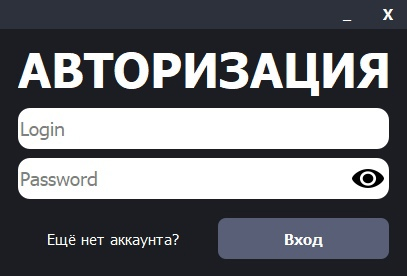
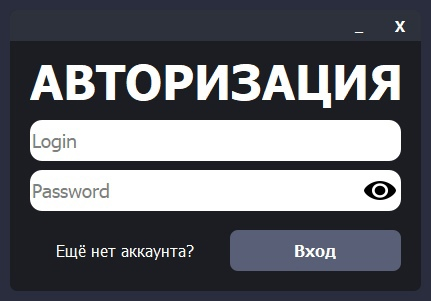
Fixed Bugs

Changed region(s): [[0.0, 0.029, 1.0, 1.0], [0.1179, 0.8116, 0.4717, 0.8986]]

diff --git a/VK_Bot/server.py b/VK_Bot/server.py
@@ -9,102 +9,129 @@ import requests
 import json
 
 def update_bot_settings(bot_settings):
-	server_answer = requests.post(f'{Config.SERVER}/vk_bot/files/bot_settings/update', json = {
-			'Bot_Settings': bot_settings,
-			'Unique_Key': Config.UNIQUE_KEY
-		}
-	)
-	if server_answer.status_code == 400:
-		server_answer_text = json.loads(server_answer.text)
-		MessageBox(text = server_answer_text['Answer'], button_2 = 'Окей')
+	try:
+		server_answer = requests.post(f'{Config.SERVER}/vk_bot/files/bot_settings/update', json = {
+				'Bot_Settings': bot_settings,
+				'Unique_Key': Config.UNIQUE_KEY
+			}
+		)
+		if server_answer.status_code == 400:
+			server_answer_text = json.loads(server_answer.text)
+			MessageBox(text = server_answer_text['Answer'], button_2 = 'Окей')
+	except requests.exceptions.ConnectionError:
+		MessageBox(text = 'Отсутствует подключение к интернету', button_2 = 'Окей')
 
 def get_bot_settings():
-	server_answer = requests.post(f'{Config.SERVER}/vk_bot/files/bot_settings/get', json = {
-			'Unique_Key': Config.UNIQUE_KEY
-		}
-	)
-	server_answer_text = json.loads(server_answer.text)
-	if server_answer.status_code == 200:
-		return server_answer_text['Bot_Settings']
-	else:
-		MessageBox(text = server_answer_text['Answer'], button_2 = 'Окей')
+	try:
+		server_answer = requests.post(f'{Config.SERVER}/vk_bot/files/bot_settings/get', json = {
+				'Unique_Key': Config.UNIQUE_KEY
+			}
+		)
+		server_answer_text = json.loads(server_answer.text)
+		if server_answer.status_code == 200:
+			return server_answer_text['Bot_Settings']
+		else:
+			MessageBox(text = server_answer_text['Answer'], button_2 = 'Окей')
+	except requests.exceptions.ConnectionError:
+		MessageBox(text = 'Отсутствует подключение к интернету', button_2 = 'Окей')
 
 def update_user_commands(user_commands):
-	server_answer = requests.post(f'{Config.SERVER}/vk_bot/files/user_commands/update', json = {
-			'User_Commands': user_commands,
-			'Unique_Key': Config.UNIQUE_KEY
-		}
-	)
-	if server_answer.status_code == 400:
-		server_answer_text = json.loads(server_answer.text)
-		MessageBox(text = server_answer_text['Answer'], button_2 = 'Окей')
+	try:
+		server_answer = requests.post(f'{Config.SERVER}/vk_bot/files/user_commands/update', json = {
+				'User_Commands': user_commands,
+				'Unique_Key': Config.UNIQUE_KEY
+			}
+		)
+		if server_answer.status_code == 400:
+			server_answer_text = json.loads(server_answer.text)
+			MessageBox(text = server_answer_text['Answer'], button_2 = 'Окей')
+	except requests.exceptions.ConnectionError:
+		MessageBox(text = 'Отсутствует подключение к интернету', button_2 = 'Окей')
 
 def get_user_commands():
-	server_answer = requests.post(f'{Config.SERVER}/vk_bot/files/user_commands/get', json = {
-			'Unique_Key': Config.UNIQUE_KEY
-		}
-	)
-	server_answer_text = json.loads(server_answer.text)
-	if server_answer.status_code == 200:
-		return server_answer_text['User_Commands']
-	else:
-		MessageBox(text = server_answer_text['Answer'], button_2 = 'Окей')
+	try:
+		server_answer = requests.post(f'{Config.SERVER}/vk_bot/files/user_commands/get', json = {
+				'Unique_Key': Config.UNIQUE_KEY
+			}
+		)
+		server_answer_text = json.loads(server_answer.text)
+		if server_answer.status_code == 200:
+			return server_answer_text['User_Commands']
+		else:
+			MessageBox(text = server_answer_text['Answer'], button_2 = 'Окей')
+	except requests.exceptions.ConnectionError:
+		MessageBox(text = 'Отсутствует подключение к интернету', button_2 = 'Окей')
 
 def update_log(log):
-	server_answer = requests.post(f'{Config.SERVER}/vk_bot/files/log/update', json = {
-			'Log': log,
-			'Unique_Key': Config.UNIQUE_KEY
-		}
-	)
-	if server_answer.status_code == 400:
-		server_answer_text = json.loads(server_answer.text)
-		MessageBox(text = server_answer_text['Answer'], button_2 = 'Окей')
+	try:
+		server_answer = requests.post(f'{Config.SERVER}/vk_bot/files/log/update', json = {
+				'Log': log,
+				'Unique_Key': Config.UNIQUE_KEY
+			}
+		)
+		if server_answer.status_code == 400:
+			server_answer_text = json.loads(server_answer.text)
+			MessageBox(text = server_answer_text['Answer'], button_2 = 'Окей')
+	except requests.exceptions.ConnectionError:
+		MessageBox(text = 'Отсутствует подключение к интернету', button_2 = 'Окей')
 
 def get_log():
-	server_answer = requests.post(f'{Config.SERVER}/vk_bot/files/log/get', json = {
-			'Unique_Key': Config.UNIQUE_KEY
-		}
-	)
-	server_answer_text = json.loads(server_answer.text)
-	if server_answer.status_code == 200:
-		return server_answer_text['Log']
-	else:
-		MessageBox(text = server_answer_text['Answer'], button_2 = 'Окей')
+	try:
+		server_answer = requests.post(f'{Config.SERVER}/vk_bot/files/log/get', json = {
+				'Unique_Key': Config.UNIQUE_KEY
+			}
+		)
+		server_answer_text = json.loads(server_answer.text)
+		if server_answer.status_code == 200:
+			return server_answer_text['Log']
+		else:
+			MessageBox(text = server_answer_text['Answer'], button_2 = 'Окей')
+	except requests.exceptions.ConnectionError:
+		MessageBox(text = 'Отсутствует подключение к интернету', button_2 = 'Окей')
 
 def find_in_database(sqlite3_command):
-	server_answer = requests.post(f'{Config.SERVER}/vk_bot/files/database/find', json = {
-			'SQLite3_Command': sqlite3_command,
-			'Unique_Key': Config.UNIQUE_KEY
-		}
-	)
-	server_answer_text = json.loads(server_answer.text)
-	if server_answer.status_code == 200:
-		return server_answer_text['Result']
-	else:
-		MessageBox(text = server_answer_text['Answer'], button_2 = 'Окей')
+	try:
+		server_answer = requests.post(f'{Config.SERVER}/vk_bot/files/database/find', json = {
+				'SQLite3_Command': sqlite3_command,
+				'Unique_Key': Config.UNIQUE_KEY
+			}
+		)
+		server_answer_text = json.loads(server_answer.text)
+		if server_answer.status_code == 200:
+			return server_answer_text['Result']
+		else:
+			MessageBox(text = server_answer_text['Answer'], button_2 = 'Окей')
+	except requests.exceptions.ConnectionError:
+		MessageBox(text = 'Отсутствует подключение к интернету', button_2 = 'Окей')
 
 def find_all_in_database(sqlite3_command):
-	server_answer = requests.post(f'{Config.SERVER}/vk_bot/files/database/find_all', json = {
-			'SQLite3_Command': sqlite3_command,
-			'Unique_Key': Config.UNIQUE_KEY
-		}
-	)
-	server_answer_text = json.loads(server_answer.text)
-	if server_answer.status_code == 200:
-		return server_answer_text['Result']
-	else:
-		MessageBox(text = server_answer_text['Answer'], button_2 = 'Окей')
+	try:
+		server_answer = requests.post(f'{Config.SERVER}/vk_bot/files/database/find_all', json = {
+				'SQLite3_Command': sqlite3_command,
+				'Unique_Key': Config.UNIQUE_KEY
+			}
+		)
+		server_answer_text = json.loads(server_answer.text)
+		if server_answer.status_code == 200:
+			return server_answer_text['Result']
+		else:
+			MessageBox(text = server_answer_text['Answer'], button_2 = 'Окей')
+	except requests.exceptions.ConnectionError:
+		MessageBox(text = 'Отсутствует подключение к интернету', button_2 = 'Окей')
 
 def edit_database(sqlite3_command, values = ()):
-	server_answer = requests.post(f'{Config.SERVER}/vk_bot/files/database/edit_database', json = {
-			'SQLite3_Command': sqlite3_command,
-			'Unique_Key': Config.UNIQUE_KEY,
-			'Values': values
-		} if values != () else {
-			'SQLite3_Command': sqlite3_command,
-			'Unique_Key': Config.UNIQUE_KEY
-		}
-	)
-	if server_answer.status_code == 400:
-		server_answer_text = json.loads(server_answer.text)
-		MessageBox(text = server_answer_text['Answer'], button_2 = 'Окей')
+	try:
+		server_answer = requests.post(f'{Config.SERVER}/vk_bot/files/database/edit_database', json = {
+				'SQLite3_Command': sqlite3_command,
+				'Unique_Key': Config.UNIQUE_KEY,
+				'Values': values
+			} if values != () else {
+				'SQLite3_Command': sqlite3_command,
+				'Unique_Key': Config.UNIQUE_KEY
+			}
+		)
+		if server_answer.status_code == 400:
+			server_answer_text = json.loads(server_answer.text)
+			MessageBox(text = server_answer_text['Answer'], button_2 = 'Окей')
+	except requests.exceptions.ConnectionError:
+		MessageBox(text = 'Отсутствует подключение к интернету', button_2 = 'Окей')

diff --git a/VK_Bot/Main_Window/main_window.py b/VK_Bot/Main_Window/main_window.py
@@ -86,7 +86,7 @@ class Ui_MainWindow(object):
         self.StartBotButton = QtWidgets.QPushButton(self.Window)
         self.StartBotButton.setGeometry(QtCore.QRect(210, 260, 181, 41))
         font = QtGui.QFont()
-        font.setPointSize(11)
+        font.setPointSize(12)
         font.setBold(True)
         font.setWeight(75)
         self.StartBotButton.setFont(font)
@@ -107,7 +107,7 @@ class Ui_MainWindow(object):
         self.BotSettingsButton = QtWidgets.QPushButton(self.Window)
         self.BotSettingsButton.setGeometry(QtCore.QRect(20, 260, 181, 41))
         font = QtGui.QFont()
-        font.setPointSize(11)
+        font.setPointSize(12)
         font.setBold(True)
         font.setWeight(75)
         self.BotSettingsButton.setFont(font)
@@ -165,7 +165,7 @@ class Ui_MainWindow(object):
         self.SaveLogButton = QtWidgets.QPushButton(self.Window)
         self.SaveLogButton.setGeometry(QtCore.QRect(20, 210, 181, 41))
         font = QtGui.QFont()
-        font.setPointSize(11)
+        font.setPointSize(12)
         font.setBold(True)
         font.setWeight(75)
         self.SaveLogButton.setFont(font)
@@ -187,7 +187,7 @@ class Ui_MainWindow(object):
         self.ClearLogButton = QtWidgets.QPushButton(self.Window)
         self.ClearLogButton.setGeometry(QtCore.QRect(210, 210, 181, 41))
         font = QtGui.QFont()
-        font.setPointSize(11)
+        font.setPointSize(12)
         font.setBold(True)
         font.setWeight(75)
         self.ClearLogButton.setFont(font)

diff --git a/VK_Bot/Registration_Window/registration_window.py b/VK_Bot/Registration_Window/registration_window.py
@@ -1,6 +1,6 @@
 # -*- coding: utf-8 -*-
 
-# Form implementation generated from reading ui file 'reg.ui'
+# Form implementation generated from reading ui file 'registration_window.ui'
 #
 # Created by: PyQt5 UI code generator 5.15.4
 #
@@ -138,7 +138,7 @@ class Ui_MainWindow(object):
         self.CreateAccountButton = QtWidgets.QPushButton(self.Window)
         self.CreateAccountButton.setGeometry(QtCore.QRect(210, 220, 171, 41))
         font = QtGui.QFont()
-        font.setPointSize(11)
+        font.setPointSize(12)
         font.setBold(True)
         font.setWeight(75)
         self.CreateAccountButton.setFont(font)
@@ -160,7 +160,7 @@ class Ui_MainWindow(object):
         self.AskButton = QtWidgets.QPushButton(self.Window)
         self.AskButton.setGeometry(QtCore.QRect(40, 230, 141, 21))
         font = QtGui.QFont()
-        font.setPointSize(11)
+        font.setPointSize(12)
         font.setBold(False)
         font.setUnderline(False)
         font.setWeight(50)

diff --git a/VK_Bot/Authorization_Window/authorization_window.py b/VK_Bot/Authorization_Window/authorization_window.py
@@ -138,7 +138,7 @@ class Ui_MainWindow(object):
         self.AuthorizationButton = QtWidgets.QPushButton(self.Window)
         self.AuthorizationButton.setGeometry(QtCore.QRect(220, 220, 171, 41))
         font = QtGui.QFont()
-        font.setPointSize(11)
+        font.setPointSize(12)
         font.setBold(True)
         font.setWeight(75)
         self.AuthorizationButton.setFont(font)
@@ -160,7 +160,7 @@ class Ui_MainWindow(object):
         self.AskButton = QtWidgets.QPushButton(self.Window)
         self.AskButton.setGeometry(QtCore.QRect(40, 230, 151, 21))
         font = QtGui.QFont()
-        font.setPointSize(11)
+        font.setPointSize(12)
         font.setBold(False)
         font.setUnderline(False)
         font.setWeight(50)

diff --git a/VK_Bot/Warning_Window/warning_window.py b/VK_Bot/Warning_Window/warning_window.py
@@ -86,7 +86,7 @@ class Ui_MainWindow(object):
         self.YesButton = QtWidgets.QPushButton(self.Window)
         self.YesButton.setGeometry(QtCore.QRect(20, 230, 181, 41))
         font = QtGui.QFont()
-        font.setPointSize(11)
+        font.setPointSize(12)
         font.setBold(True)
         font.setWeight(75)
         self.YesButton.setFont(font)
@@ -108,7 +108,7 @@ class Ui_MainWindow(object):
         self.NoButton = QtWidgets.QPushButton(self.Window)
         self.NoButton.setGeometry(QtCore.QRect(210, 230, 181, 41))
         font = QtGui.QFont()
-        font.setPointSize(11)
+        font.setPointSize(12)
         font.setBold(True)
         font.setWeight(75)
         self.NoButton.setFont(font)

diff --git a/VK_Bot/Main_Window/Settings_Panel_Window/User_Command_Panel_Widnow/user_command_panel_window.py b/VK_Bot/Main_Window/Settings_Panel_Window/User_Command_Panel_Widnow/user_command_panel_window.py
@@ -1,6 +1,6 @@
 # -*- coding: utf-8 -*-
 
-# Form implementation generated from reading ui file 'user_command_panel.ui'
+# Form implementation generated from reading ui file 'user_command_panel_window.ui'
 #
 # Created by: PyQt5 UI code generator 5.15.4
 #
@@ -133,7 +133,7 @@ class Ui_Form(object):
         self.UserCommandButton = QtWidgets.QPushButton(self.Window)
         self.UserCommandButton.setGeometry(QtCore.QRect(20, 240, 301, 41))
         font = QtGui.QFont()
-        font.setPointSize(11)
+        font.setPointSize(12)
         font.setBold(True)
         font.setWeight(75)
         self.UserCommandButton.setFont(font)
